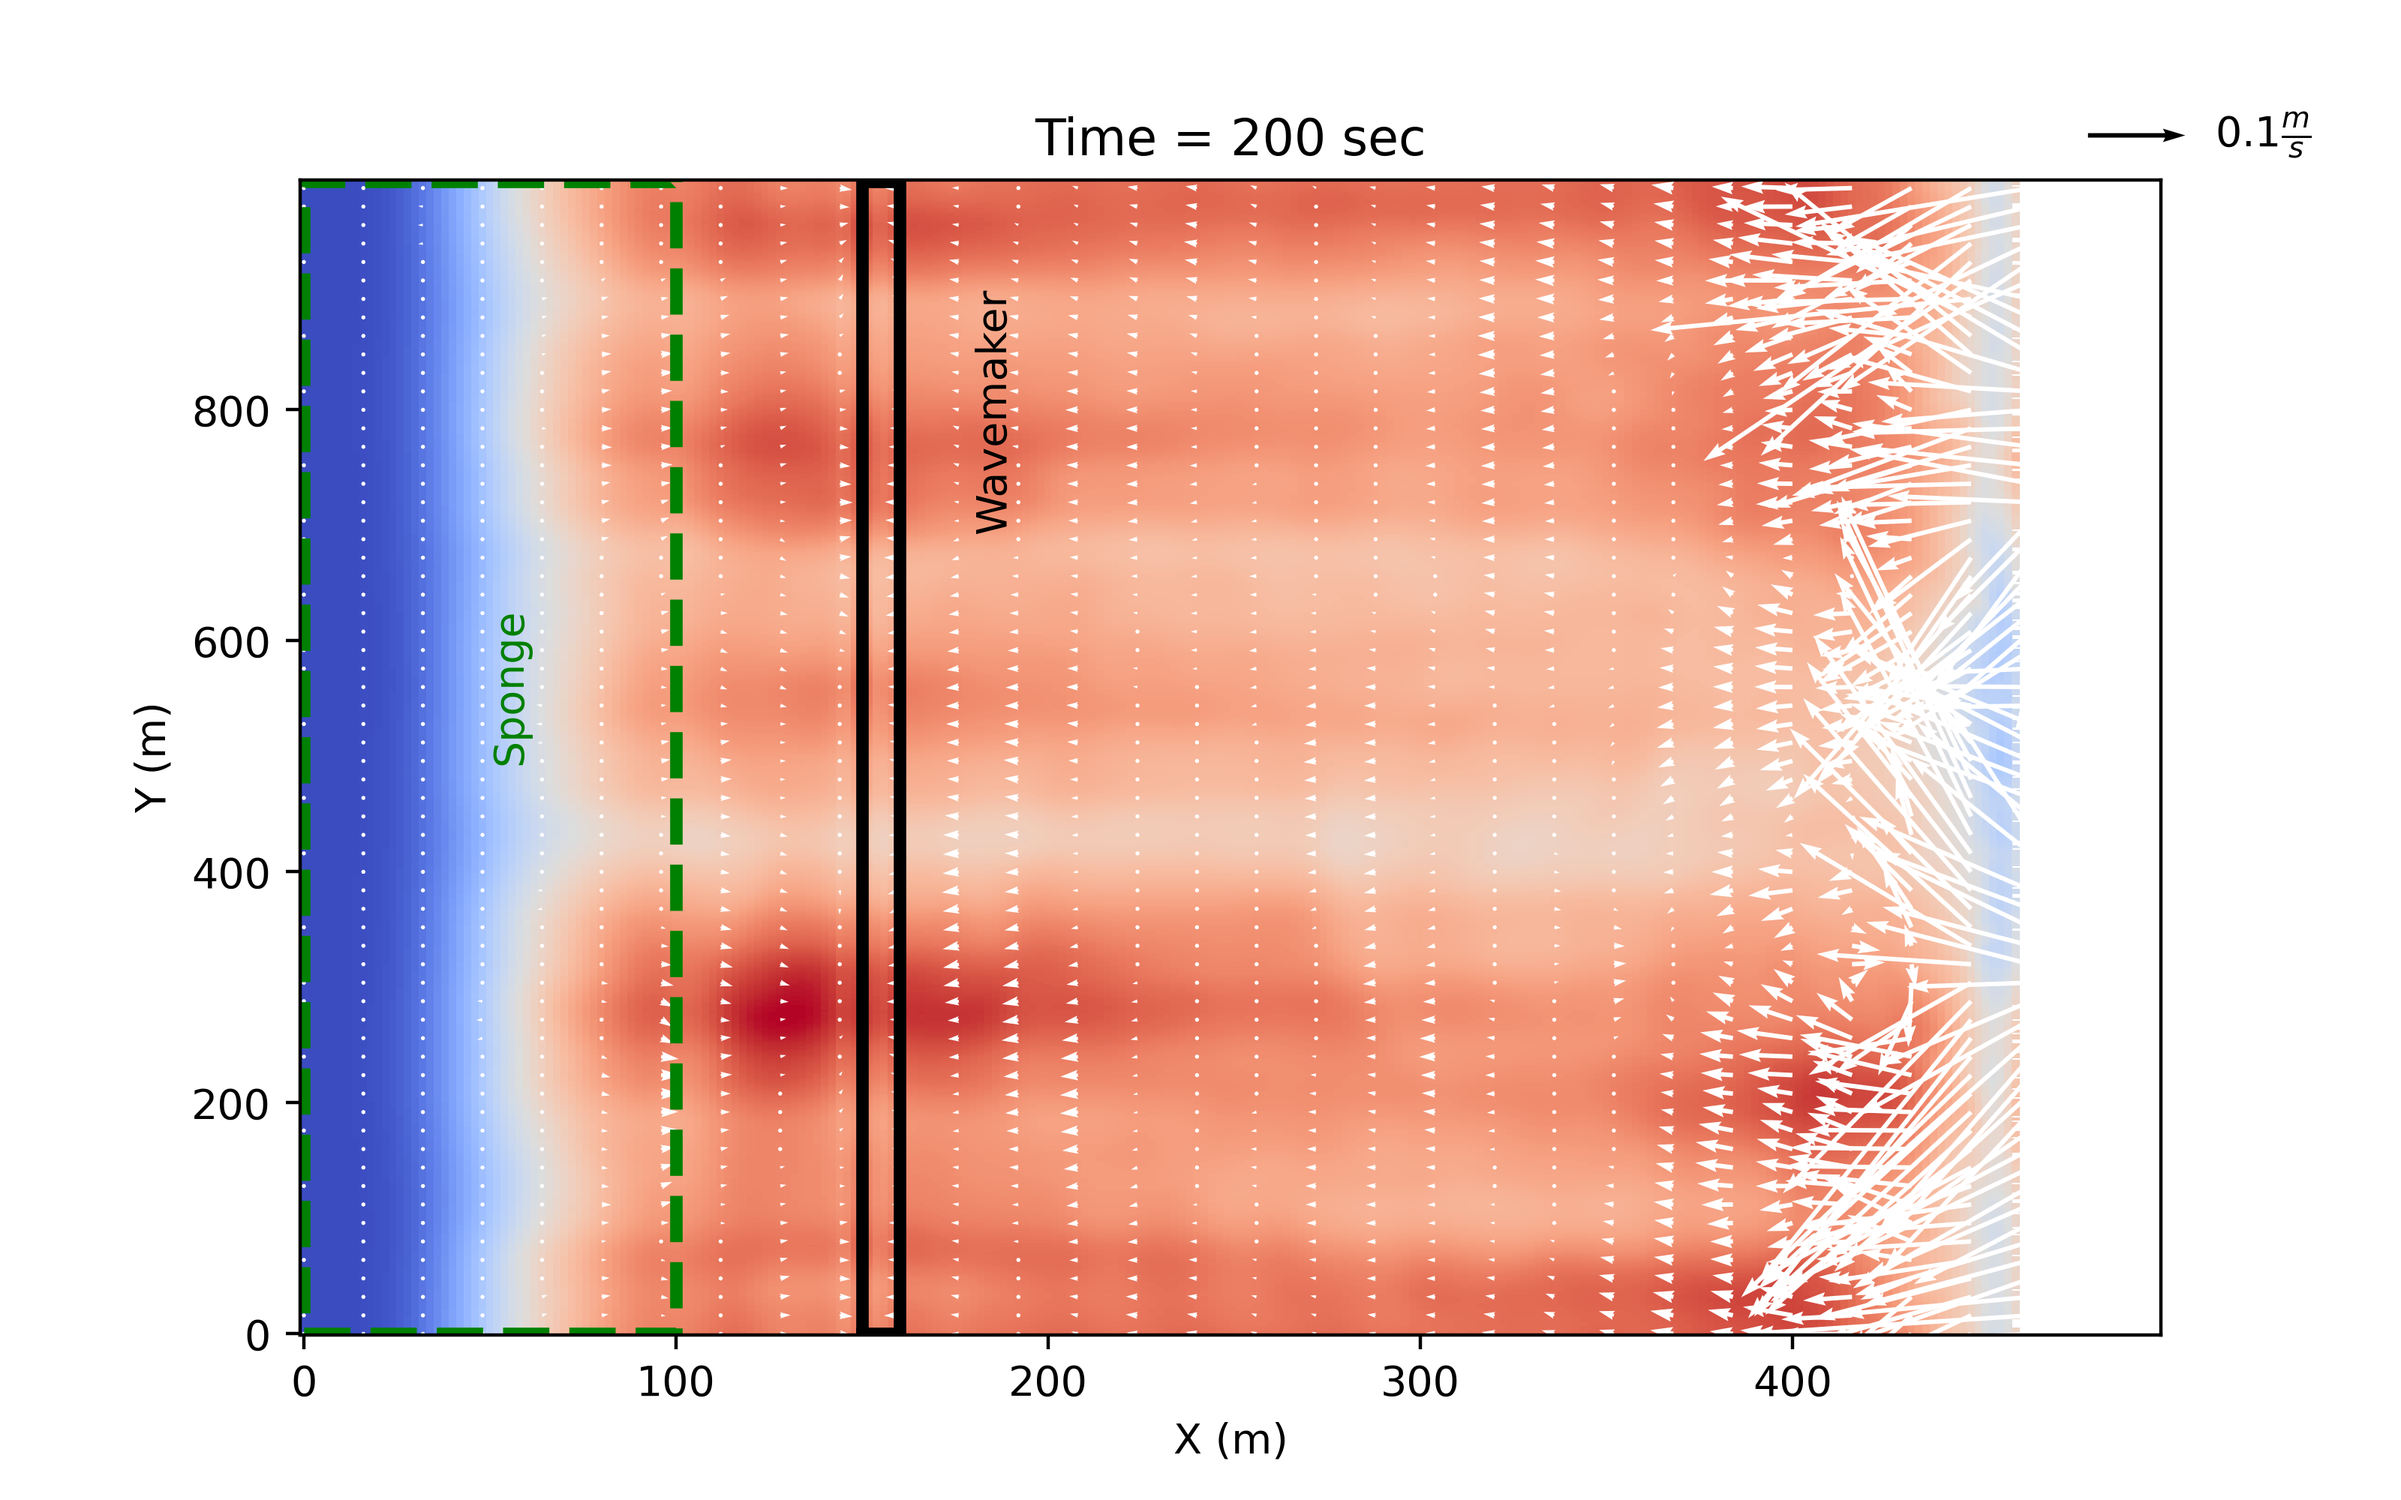
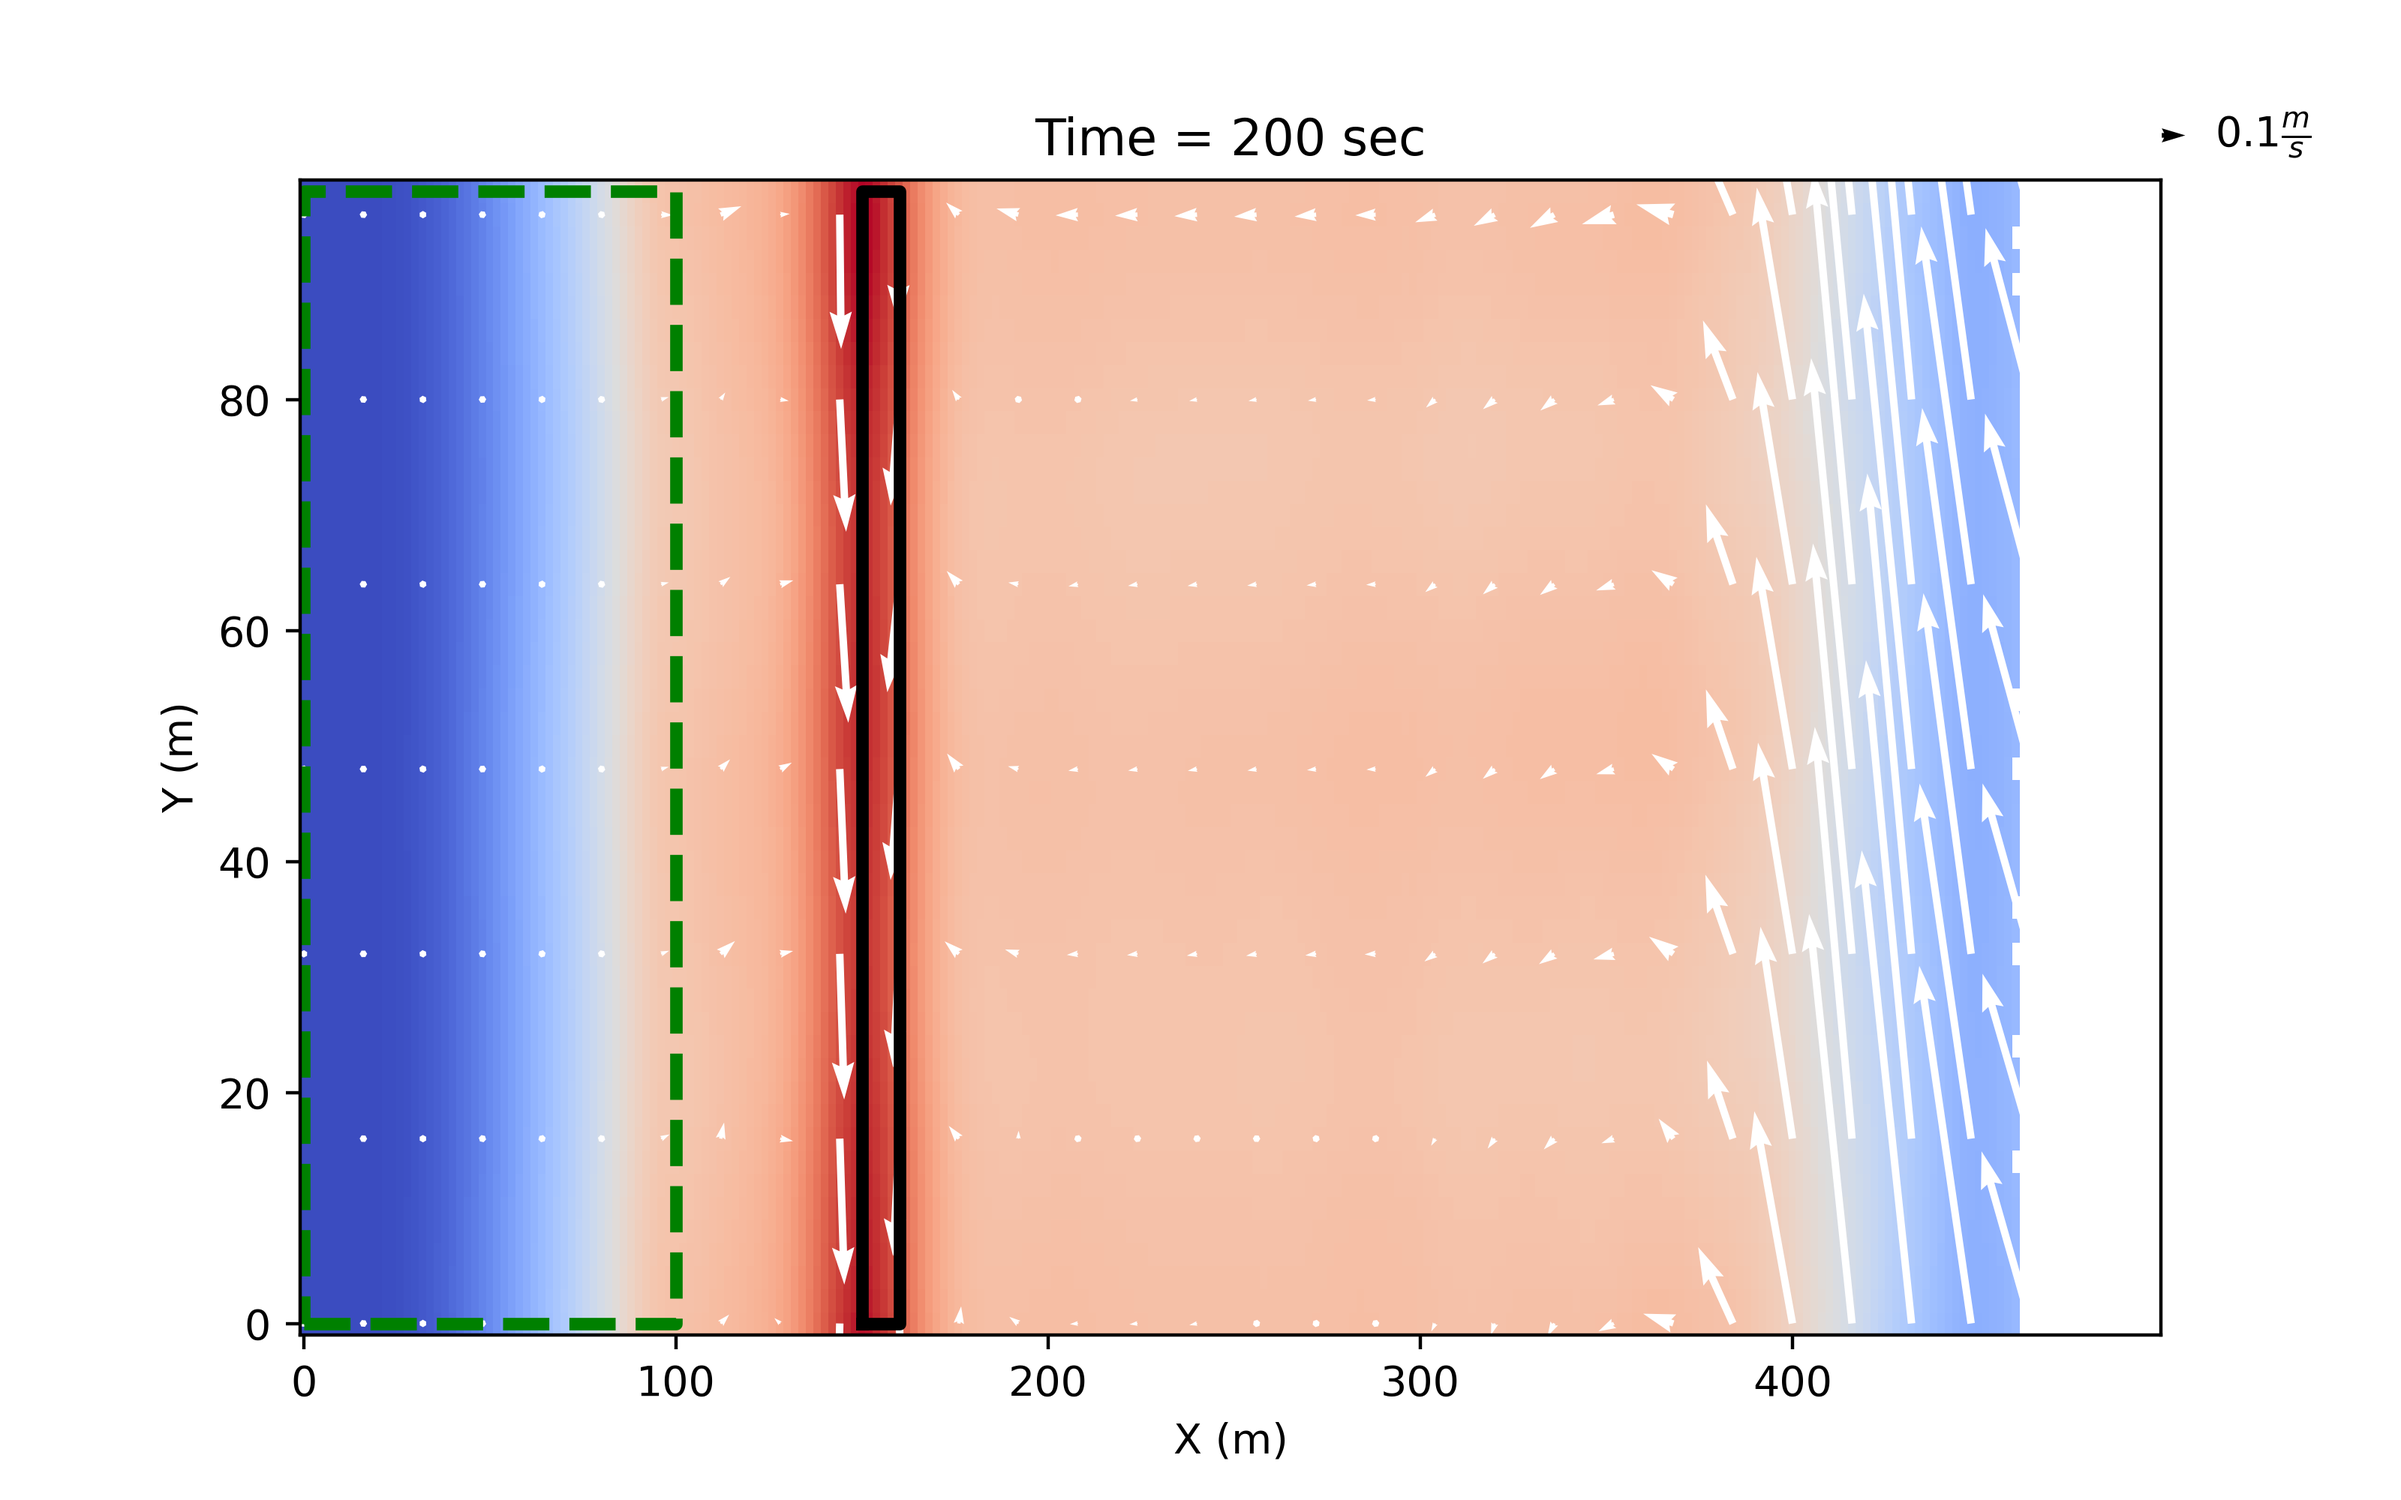
Day 5 checkpoint

diff --git a/simple_cases/rip_2d/postprocessing/plot_eta_vor_commented_GP.py b/simple_cases/rip_2d/postprocessing/plot_eta_vor_commented_GP.py
@@ -38,56 +38,105 @@ nstart = input('enter nstart: ')
 nend = input('enter nend: ')
 
 # previous version (2nd revision) nstart=280
+def executeSubplot(i):
+        # Padding integer values with zeros
+        # to be 5 letters long e.g. 1 -> 00001
+        #icount = icount + 1
+        fnum = '{0:0>5}'.format(i)
 
+        # Loading data from files
+        u = np.loadtxt(os.path.join(fdir,'umean_'+fnum))
+        v = np.loadtxt(os.path.join(fdir,'vmean_'+fnum))
+        eta = np.loadtxt(os.path.join(fdir,'eta_'+fnum))
+        mask = np.loadtxt(os.path.join(fdir,'mask_'+fnum))
+
+        # Removing masked regions from plot
+        eta[np.where( mask < 1)] = np.nan
+        dep[np.where( mask < 1)] = np.nan
+        u[np.where( mask < 1)] = np.nan
+        v[np.where( mask < 1)] = np.nan
+
+        # ------------------
+        plt.subplot(1,2,1)
+
+        # plot eta (surface elevation)
+        hp = plt.pcolor(xx,yy,eta, cmap=jet)
+        plt.axis([0,m*dx/2,0,n*dy])
+        h_bar = plt.colorbar(hp,orientation="horizontal")
+        tick_locator = ticker.MaxNLocator(nbins=5)
+        h_bar.locator = tick_locator
+        h_bar.update_ticks()
+
+        h_bar.ax.set_xlabel(r'$\eta (m)$')
+        plt.xlabel('x (m)')
+        plt.ylabel('y (m)')
+        # ----------------
+        plt.subplot(1,2,2)
+
+        cf = plt.contourf(xx,yy,-dep,10);
+        c_bar = plt.colorbar(cf, orientation='horizontal')
+        c_bar.ax.set_xlabel('depth (m)')
+
+        everyWhich=6 # plot every nth arrow (scales with image)
+        q = plt.quiver(xx[::everyWhich, ::everyWhich],
+                     yy[::everyWhich, ::everyWhich],
+                     u[::everyWhich, ::everyWhich],
+                     v[::everyWhich, ::everyWhich])
+        plt.xlabel('x (m)')
+        plt.axis([0,m*dx/2,0,n*dy])
+        plt.savefig('rip_2d_2subplot_num_'+str(i)+'.png', dpi=400)                                                            
+        plt.show()   
 icount = 0
 #for num=nstart:nend
 for num in range(int(nstart),int(nend)+1):
-              # Padding integer values with zeros
-              # to be 5 letters long e.g. 1 -> 00001
-              icount = icount + 1
-              fnum = '{0:0>5}'.format(num)
+        icount += 1
+        executeSubplot(num)
+        # Padding integer values with zeros
+        # to be 5 letters long e.g. 1 -> 00001
+        #icount = icount + 1
+        #fnum = '{0:0>5}'.format(num)
 
-              # Loading data from files
-              u = np.loadtxt(os.path.join(fdir,'umean_'+fnum))
-              v = np.loadtxt(os.path.join(fdir,'vmean_'+fnum))
-              eta = np.loadtxt(os.path.join(fdir,'eta_'+fnum))
-              mask = np.loadtxt(os.path.join(fdir,'mask_'+fnum))
+        # Loading data from files
+        #u = np.loadtxt(os.path.join(fdir,'umean_'+fnum))
+        #v = np.loadtxt(os.path.join(fdir,'vmean_'+fnum))
+        #eta = np.loadtxt(os.path.join(fdir,'eta_'+fnum))
+        #mask = np.loadtxt(os.path.join(fdir,'mask_'+fnum))
 
-              # Removing masked regions from plot
-              eta[np.where( mask < 1)] = np.nan
-              dep[np.where( mask < 1)] = np.nan
-              u[np.where( mask < 1)] = np.nan
-              v[np.where( mask < 1)] = np.nan
+        # Removing masked regions from plot
+        #eta[np.where( mask < 1)] = np.nan
+        #dep[np.where( mask < 1)] = np.nan
+        #u[np.where( mask < 1)] = np.nan
+        #v[np.where( mask < 1)] = np.nan
 
-              # ------------------
-              plt.subplot(1,2,1)
+        # ------------------
+        #plt.subplot(1,2,1)
 
-              # plot eta (surface elevation)
-              hp = plt.pcolor(xx,yy,eta, cmap=jet)
-              plt.axis([0,m*dx/2,0,n*dy])
-              h_bar = plt.colorbar(hp,orientation="horizontal")
-              tick_locator = ticker.MaxNLocator(nbins=5)
-              h_bar.locator = tick_locator
-              h_bar.update_ticks()
+        # plot eta (surface elevation)
+        #hp = plt.pcolor(xx,yy,eta, cmap=jet)
+        #plt.axis([0,m*dx/2,0,n*dy])
+        #h_bar = plt.colorbar(hp,orientation="horizontal")
+        #tick_locator = ticker.MaxNLocator(nbins=5)
+        #h_bar.locator = tick_locator
+        #h_bar.update_ticks()
 
-              h_bar.ax.set_xlabel(r'$\eta (m)$')
-              plt.xlabel('x (m)')
-              plt.ylabel('y (m)')
+        #h_bar.ax.set_xlabel(r'$\eta (m)$')
+        #plt.xlabel('x (m)')
+        #plt.ylabel('y (m)')
 
-              # ----------------
-              plt.subplot(1,2,2)
+        # ----------------
+        #plt.subplot(1,2,2)
 
-              cf = plt.contourf(xx,yy,-dep,10);
-              c_bar = plt.colorbar(cf, orientation='horizontal')
-              c_bar.ax.set_xlabel('depth (m)')
+        #cf = plt.contourf(xx,yy,-dep,10);
+        #c_bar = plt.colorbar(cf, orientation='horizontal')
+        #c_bar.ax.set_xlabel('depth (m)')
 
-              everyWhich=6 # plot every nth arrow (scales with image)
-              q = plt.quiver(xx[::everyWhich, ::everyWhich],
-                             yy[::everyWhich, ::everyWhich],
-                             u[::everyWhich, ::everyWhich],
-                             v[::everyWhich, ::everyWhich])
-              plt.xlabel('x (m)')
-              plt.axis([0,m*dx/2,0,n*dy])
+        #everyWhich=6 # plot every nth arrow (scales with image)
+        #q = plt.quiver(xx[::everyWhich, ::everyWhich],
+        #               yy[::everyWhich, ::everyWhich],
+        #               u[::everyWhich, ::everyWhich],
+        #               v[::everyWhich, ::everyWhich])
+        #plt.xlabel('x (m)')
+        #plt.axis([0,m*dx/2,0,n*dy])
 
-              plt.savefig('rip_2d_2subplot_num_'+str(num)+'.png', dpi=400)                                                            
-              plt.show()                                                                                                              
+        #plt.savefig('rip_2d_2subplot_num_'+str(num)+'.png', dpi=400)                                                            
+        #plt.show()                                                                                                              

diff --git a/simple_cases/beach_2d/postprocessing/plot_wave_2d_GP.py b/simple_cases/beach_2d/postprocessing/plot_wave_2d_GP.py
@@ -8,13 +8,15 @@ import os
 # write your OWN PC folder path for fdir
 # Remember that we use for Mac & Linux machines '/', while on windows '\'
 #fdir = r'C:\Users\User\Documents\USACE_WORK\Funwave_Seminar\results\beach_2d\work\output'
-fdir = "../../../../simulationRuns/beach2D/output/"
-#fdir = "../../../../simulationRuns/beach2D_radiation/output/"
+#fdir = "../../../../simulationRuns/beach2D/output/"
+fdir = "../../../../simulationRuns/beach2D_radiation/output/"
 # upload eta file
 eta=np.loadtxt(os.path.join(fdir,'eta_00001'))
 
 # define plot location
 n,m = np.shape(eta)
+print("Nglob:", n)
+print("Mglob:", m)
 dx = 2.0
 dy = 2.0
 
@@ -22,12 +24,11 @@ x = np.asarray([float(xa)*dx for xa in range(m)])
 y = np.asarray([float(ya)*dy for ya in range(n)])
 
 # define sponge and wavemaker location
-x_sponge = [0,100,100,0,0]
-y_sponge = [0,0,y[len(y)-1],y[len(y)-1],0]
+x_sponge =      [0,         100,        100,            0,              0  ]
+y_sponge =      [0,         0,          y[len(y)-1],    y[len(y)-1],    0  ]
 
-x_wavemaker = [150, 160, 160, 150, 150]
-y_wavemaker = [0, 0, y[len(y)-1],y[len(y)-1],0]
-
+x_wavemaker =   [150,       160,        160,            150,            150]
+y_wavemaker =   [0,         0,          y[len(y)-1],    y[len(y)-1],    0  ]
 
 nfile = [10, 50]    # range of eta files you want to plot
 min = ['20','100']  # time you want to plot
@@ -42,6 +43,7 @@ fig = plt.figure(figsize=(wid,length),dpi=200)
 #Gabriel's
 #The class to represent a plot to be used for this file
 class Beach2DPlotII:
+    
     def __init__(self, fileNumber):
         self.fileNumber = fileNumber
 
@@ -60,6 +62,7 @@ class Beach2DPlotII:
         mask = np.loadtxt(os.path.join(fdir, "mask_" + fnum))
 
         eta_masked = np.ma.masked_where(mask == 0, eta)
+        print(np.shape(eta_masked))
 
         ax = fig.add_subplot(1, testFileQuantity, i + 1)
         fig.subplots_adjust(hspace = 1, wspace = .25)
@@ -68,7 +71,7 @@ class Beach2DPlotII:
         title = "Time = " + min[i] + " sec"
         plt.title(title)
         #plt.hold(True)
-
+        # plot sponge and wavemaker
         plt.plot(x_sponge, y_sponge, "g--", linewidth = 3)
         plt.text(50, 500, "Sponge", color = 'g', rotation = 90)
 
@@ -117,5 +120,6 @@ testFileQuantity = len(nfile)
 for p in [Beach2DPlotII(num) for num in nfile]:
     p.putIn(fig, testFileQuantity, i)
     i += 1
+
 # save figure  
 fig.savefig('eta_2d_wave.png', dpi=fig.dpi)

diff --git a/simple_cases/beach_2d/postprocessing/plot_current_GP.py b/simple_cases/beach_2d/postprocessing/plot_current_GP.py
@@ -9,8 +9,8 @@ import os
 # write your OWN PC folder path for fdir
 # Remember that we use for Mac & Linux machines '/', while on windows '\', the r denotes raw string
 #fdir = r'/Users/Gaby/Desktop/Postprocessing-Workshop/simple_cases_output/beach_2D/beach_2D/'
-fdir = "../../../../simulationRuns/beach2D/output/"
-#fdir = "../../../../simulationRuns/beach2D_radiation/output"
+#fdir = "../../../../simulationRuns/beach2D/output/"
+fdir = "../../../../simulationRuns/beach2D_radiation/output"
 
 # upload eta file
 eta = np.loadtxt(os.path.join(fdir,'eta_00001'))
@@ -23,14 +23,14 @@ dy = 2.0
 x = np.asarray([float(xa)*dx for xa in range(m)]) #numpy shape
 y = np.asarray([float(ya)*dy for ya in range(n)]) #numpy shape
 
-x_sponge = [0,100,100,0,0]
-y_sponge = [0,0,y[len(y)-1],y[len(y)-1],0]
+x_sponge =      [0,         100,        100,            0,              0  ]
+y_sponge =      [0,         0,          y[len(y)-1],    y[len(y)-1],    0  ]
 
-x_wavemaker = [150, 160, 160, 150, 150]
-y_wavemaker = [0, 0, y[len(y)-1],y[len(y)-1],0]
+x_wavemaker =   [150,       160,        160,            150,            150]
+y_wavemaker =   [0,         0,          y[len(y)-1],    y[len(y)-1],    0  ]
 
-nfile = [1]     # range of eta files you want to plot
-min = ['200']   # time  you want to plot
+nfile =         [   1       ]       # range of eta files you want to plot
+min =           [   '200'   ]       # time  you want to plot
 
 # figure size option 
 wid=8    # width
@@ -64,7 +64,7 @@ class Beach2DPlot:
         global min
         global wid
         global length
-
+        
         ax = fig.add_subplot(1, testFileQuantity, i + 1)
         fig.subplots_adjust(hspace=1,wspace=.25)
         plt.pcolor(x, y, self.ht_masked, cmap='coolwarm')

diff --git a/simple_cases/beach_2d/postprocessing/plot_wave_2d.py b/simple_cases/beach_2d/postprocessing/plot_wave_2d.py
@@ -7,7 +7,8 @@ import os
 # write your OWN PC folder path for fdir
 # Remember that we use for Mac & Linux machines '/', while on windows '\'
 #fdir = r'C:\Users\User\Documents\USACE_WORK\Funwave_Seminar\results\beach_2d\work\output'
-fdir = "../../../../simulationRuns/beach2D/output/"
+#fdir = "../../../../simulationRuns/beach2D/output/"
+fdir = "../../../../simulationRuns/beach2D_radiation/output/"
 # upload eta file
 eta=np.loadtxt(os.path.join(fdir,'eta_00001'))
 
